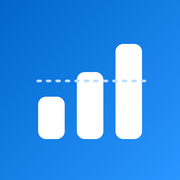
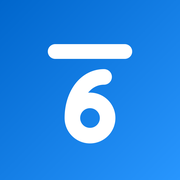
Publication v85 : nouveau nom Sur6 et nouvelle icône

Changed region(s): [[0.1944, 0.2222, 0.8333, 0.8056], [0.1944, 0.4167, 0.3333, 0.4722]]

diff --git a/onboard.js b/onboard.js
@@ -108,7 +108,7 @@
 
   function body(s) {
     if (s.id === "welcome") {
-      return '<div class="ob-hero"><img src="icon-180.png" alt="" class="ob-icon"><h1>Bienvenue</h1>' +
+      return '<div class="ob-hero"><img src="icon-180.png" alt="" class="ob-icon"><h1>Bienvenue dans Sur6</h1>' +
         '<p>Tes notes, tes moyennes et ta promotion, calculées pour toi. Réponds à quelques questions sur ton cursus : tout reste sur cet appareil.</p>' +
         '<p class="ob-fine">Vaud et Genève · règles 2026-2027</p>' +
         '<p class="ob-fine ob-disc">' + esc(window.Guide ? Guide.disclaimer : "Application non officielle. Résultats indicatifs : seul ton bulletin fait foi.") + '</p>' +
@@ -403,12 +403,12 @@
     if (isIOS) return [
       [ICON_SHARE, "Touche le bouton Partager", isIPhone ? "En bas du navigateur, ou en haut à droite dans Chrome. Si tu ne le vois pas, touche d'abord ⋯." : "En haut à droite du navigateur. Si tu ne le vois pas, touche d'abord ⋯."],
       [ICON_ADD, "Choisis « Sur l'écran d'accueil »", "Fais défiler la liste si besoin, puis touche « Ajouter »."],
-      [ICON_HOME, "Ouvre Notes depuis ton écran d'accueil", "La configuration commencera dans l'app."]
+      [ICON_HOME, "Ouvre Sur6 depuis ton écran d'accueil", "La configuration commencera dans l'app."]
     ];
     return [
       [ICON_DOTS, "Ouvre le menu du navigateur", "Le bouton ⋮ en haut à droite."],
       [ICON_ADD, "Touche « Installer l'application »", "Ou « Ajouter à l'écran d'accueil »."],
-      [ICON_HOME, "Ouvre Notes depuis ton écran d'accueil", "La configuration commencera dans l'app."]
+      [ICON_HOME, "Ouvre Sur6 depuis ton écran d'accueil", "La configuration commencera dans l'app."]
     ];
   }
 
@@ -436,9 +436,9 @@
   var SC_SCROLL = 70; // défilement de la feuille de partage, en px de la scène
   var SKIP_DELAY = 6000;
   function demoSteps(kind) {
-    var tail = [["addhome", "Fais défiler, puis touche « Sur l'écran d'accueil »"], ["ok", "Touche « Ajouter »"], ["icon", "Ouvre Notes depuis ton écran d'accueil"]];
-    if (kind === "inapp") return [["open", "Touche « Ouvrir dans " + target() + " »"], ["safari", target() + " s'ouvre : suis les étapes pour installer Notes"]];
-    if (kind === "android") return [["more", "Touche ⋮ en haut à droite de Chrome"], ["addhome", "Touche « Ajouter à l'écran d'accueil »"], ["ok", "Touche « Installer »"], ["icon", "Ouvre Notes depuis ton écran d'accueil"]];
+    var tail = [["addhome", "Fais défiler, puis touche « Sur l'écran d'accueil »"], ["ok", "Touche « Ajouter »"], ["icon", "Ouvre Sur6 depuis ton écran d'accueil"]];
+    if (kind === "inapp") return [["open", "Touche « Ouvrir dans " + target() + " »"], ["safari", target() + " s'ouvre : suis les étapes pour installer Sur6"]];
+    if (kind === "android") return [["more", "Touche ⋮ en haut à droite de Chrome"], ["addhome", "Touche « Ajouter à l'écran d'accueil »"], ["ok", "Touche « Installer »"], ["icon", "Ouvre Sur6 depuis ton écran d'accueil"]];
     if (kind === "ipad") return [["share", "Touche Partager, en haut à droite de Safari"]].concat(tail);
     return (safariV >= 26 ? [["more", "Touche ••• en bas à droite de Safari"], ["share", "Touche « Partager »"]]
       : [["share", "Touche Partager, en bas au milieu de Safari"]]).concat(tail);
@@ -455,7 +455,7 @@
     var I = function (n) { return window.Icons.svg(n); }, host = esc(location.hostname || "notes");
     var li = function (t, ic, id) { return '<div class="ios-sc-li"' + (id ? ' data-t="' + id + '"' : "") + '><span>' + t + '</span>' + I(ic) + '</div>'; };
     var page = function (c) { return '<div class="ios-sc-page' + (c ? " " + c : "") + '"><img src="icon-180.png" alt=""><i class="t"></i><i></i><i class="s"></i><i></i></div>'; };
-    var home = '<div class="ios-sc-home">' + new Array(11).join("<i></i>") + '<img src="icon-180.png" alt="" data-t="icon"><b class="ios-sc-name">Notes</b></div>' +
+    var home = '<div class="ios-sc-home">' + new Array(11).join("<i></i>") + '<img src="icon-180.png" alt="" data-t="icon"><b class="ios-sc-name">Sur6</b></div>' +
       '<div class="ios-sc-launch"></div><div class="ios-sc-dot"></div>';
     var top = isIOS ? '<div class="ios-sc-island"></div><div class="ios-sc-status"><span>9:41</span></div>' : '<div class="ios-sc-status ios-sc-astatus"><span>9:41</span></div>';
     var bar26 = '<div class="ios-sc-bar26"><span class="ios-sc-c">' + I("chevl") + '</span><span class="ios-sc-addr">' + host + '</span><span class="ios-sc-c" data-t="more">' + I("dots") + '</span></div>';
@@ -468,20 +468,20 @@
       (igB ? '<div class="ios-sc-inbar"><span>' + I("times") + '</span><b>' + host + '</b><span class="ios-sc-igm" data-t="igmore">' + I("dots") + '</span></div>' +
         '<div class="ios-sc-menu ios-sc-igmenu">' + li("Copier le lien", "copy") + li("Ouvrir dans le navigateur externe", "globe", "extbrowser") + li("Signaler", "info") + '</div>'
       : '<div class="ios-sc-inbar"><span class="ios-sc-blue">' + (isIOS ? "Terminé" : I("times")) + '</span><b>' + (isMoodle ? "Moodle" : host) + '</b><span></span></div>') +
-      '<div class="ios-sc-ipage"><img src="icon-180.png" alt=""><b>Ouvre Notes dans ' + target() + '</b><span class="ios-sc-btn" data-t="open">Ouvrir dans ' + target() + '</span></div>' +
+      '<div class="ios-sc-ipage"><img src="icon-180.png" alt=""><b>Ouvre Sur6 dans ' + target() + '</b><span class="ios-sc-btn" data-t="open">Ouvrir dans ' + target() + '</span></div>' +
       '<div class="ios-sc-saf">' + top + (isIOS ? page() + (safariV >= 26 ? bar26 : bar18) : atop + page("ios-sc-apage")) + '</div><div class="ios-sc-dot"></div>';
     // Chrome sur Android : barre d'adresse en haut avec ⋮, menu qui descend, boîte « Installer l'application ».
     if (kind === "android") return top + atop + page("ios-sc-apage") +
       '<div class="ios-sc-menu ios-sc-amenu">' + li("Nouvel onglet", "add") + li("Historique", "clock") + li("Favoris", "star") + li("Partager…", "share") +
       li("Ajouter à l'écran d'accueil", "addhome", "addhome") + li("Paramètres", "settings") + '</div>' +
-      '<div class="ios-sc-add ios-sc-dlg"><b>Installer l\'application</b><div class="ios-sc-card"><img src="icon-180.png" alt=""><span><b>Notes</b><small>' + host + '</small></span></div>' +
+      '<div class="ios-sc-add ios-sc-dlg"><b>Installer l\'application</b><div class="ios-sc-card"><img src="icon-180.png" alt=""><span><b>Sur6</b><small>' + host + '</small></span></div>' +
       '<div class="ios-sc-dlgb"><span class="ios-sc-blue">Annuler</span><span class="ios-sc-blue ios-sc-ok" data-t="ok">Installer</span></div></div>' + home;
-    var sheet = '<div class="ios-sc-sheet"><div class="ios-sc-sheet-in"><div class="ios-sc-head"><img src="icon-180.png" alt=""><span><b>Notes</b><small>' + host + '</small></span></div>' +
+    var sheet = '<div class="ios-sc-sheet"><div class="ios-sc-sheet-in"><div class="ios-sc-head"><img src="icon-180.png" alt=""><span><b>Sur6</b><small>' + host + '</small></span></div>' +
       '<div class="ios-sc-round"><i></i><i></i><i></i><i></i><i></i></div><div class="ios-sc-round ios-sc-apps"><i></i><i></i><i></i><i></i><i></i></div>' +
       '<div class="ios-sc-list">' + li("Copier", "copy") + li("Ajouter à la liste de lecture", "list") + li("Ajouter aux signets", "book") + li("Ajouter aux favoris", "star") +
       li("Rechercher dans la page", "search") + li("Sur l'écran d'accueil", "addhome", "addhome") + li("Imprimer", "doc") + '</div></div></div>' +
       '<div class="ios-sc-add"><div class="ios-sc-addh"><span class="ios-sc-blue">Annuler</span><b>Ajouter à l\'écran d\'accueil</b><span class="ios-sc-blue ios-sc-ok" data-t="ok">Ajouter</span></div>' +
-      '<div class="ios-sc-card"><img src="icon-180.png" alt=""><span><b>Notes</b><small>' + host + '</small></span></div>' +
+      '<div class="ios-sc-card"><img src="icon-180.png" alt=""><span><b>Sur6</b><small>' + host + '</small></span></div>' +
       '<div class="ios-sc-card ios-sc-tg"><span>Ouvrir comme app web</span><i></i></div></div>';
     // Safari sur iPad : barre en haut, Partager à droite, la feuille s'ouvre en bulle sous le bouton.
     if (kind === "ipad") return '<div class="ios-sc-status"><span>9:41</span></div>' +
@@ -498,8 +498,8 @@
     var el = document.createElement("div");
     el.className = "ob ob-install ios-inst"; el.setAttribute("role", "dialog"); el.setAttribute("aria-modal", "true"); el.setAttribute("aria-label", "Installer l'app");
     el.innerHTML =
-      (inapp ? '<div class="ios-inst-head"><h1>Ouvre Notes dans ' + target() + '</h1><p>' + (inApp ? "Ici, Notes ne peut pas s'installer." : "Notes s'installe depuis " + target() + ".") + '</p></div>'
-        : '<div class="ios-inst-head"><h1>Installe Notes</h1><p>Regarde, puis fais pareil dans ' + nav + '.</p></div>') +
+      (inapp ? '<div class="ios-inst-head"><h1>Ouvre Sur6 dans ' + target() + '</h1><p>' + (inApp ? "Ici, Sur6 ne peut pas s'installer." : "Sur6 s'installe depuis " + target() + ".") + '</p></div>'
+        : '<div class="ios-inst-head"><h1>Installe Sur6</h1><p>Regarde, puis fais pareil dans ' + nav + '.</p></div>') +
       '<div class="ios-inst-stage"><div class="ios-inst-ph" aria-hidden="true"><div class="ios-inst-sc ios-inst-' + kind + (isIOS ? "" : " ios-inst-andr") + '">' + sceneHTML(kind) + '</div></div></div>' +
       '<div class="ios-inst-cap" aria-live="polite"><span class="ios-inst-n"></span><b class="ios-inst-t"></b></div>' +
       '<div class="ios-inst-nav">' + (live ? "" : '<button type="button" class="ob-round" id="inst-prev" aria-label="Étape précédente">' + window.Icons.svg("chevl") + '</button>') +
@@ -507,12 +507,12 @@
       (live ? "" : '<button type="button" class="ob-round" id="inst-next" aria-label="Étape suivante">' + window.Icons.svg("chevr") + '</button>') + '</div>' +
       '<div class="ios-inst-foot">' +
       // Un seul gros bouton quand une action directe existe : installer (Chrome) ou ouvrir le bon navigateur (navigateur intégré).
-      (andr ? '<button type="button" class="btn ob-next ios-inst-go" id="inst-btn"' + (deferredPrompt ? "" : " hidden") + '>Installer Notes</button>' : "") +
+      (andr ? '<button type="button" class="btn ob-next ios-inst-go" id="inst-btn"' + (deferredPrompt ? "" : " hidden") + '>Installer Sur6</button>' : "") +
       (inapp ? '<a class="btn ob-next ios-inst-go" id="inst-open" href="' + esc(openURL()) + '">Ouvrir dans ' + target() + '</a>' +
         '<button type="button" class="btn ob-next ios-inst-go" id="inst-copy" hidden>Copier le lien</button>' : "") +
-      '<p class="ob-fine">' + (andr ? "Notes s\'ouvrira en plein écran, comme une vraie app, et marchera sans connexion."
+      '<p class="ob-fine">' + (andr ? "Sur6 s\'ouvrira en plein écran, comme une vraie app, et marchera sans connexion."
         : inapp ? "Si rien ne s\'ouvre, copie le lien et colle-le dans la barre d\'adresse de " + target() + "."
-        : "Safari et l\'app de l\'écran d\'accueil ne partagent pas leurs données : configure Notes dans l\'app, pas ici.") + '</p>' +
+        : "Safari et l\'app de l\'écran d\'accueil ne partagent pas leurs données : configure Sur6 dans l\'app, pas ici.") + '</p>' +
       '<p class="ob-fine ios-inst-parent">Parent d\'élève ? Installe d\'abord l\'app comme ton enfant, puis touche « Pour les parents ».</p>' +
       '<button type="button" class="link inst-skip ios-inst-later" id="inst-skip">Continuer ' + here + '</button></div>';
     document.body.appendChild(el);
@@ -661,7 +661,7 @@
         op.hidden = true; cp.hidden = false;
         if (isInsta && isIOS) {
           // Plan B : la démo montre ••• puis « Ouvrir dans le navigateur externe » ; « Copier le lien » reste dessous, en gris.
-          STEPS = [["igmore", "Ça ne s'est pas ouvert ? Touche ••• en haut à droite"], ["extbrowser", "Touche « Ouvrir dans le navigateur externe »"], ["safari", "Safari s'ouvre : suis les étapes pour installer Notes"]];
+          STEPS = [["igmore", "Ça ne s'est pas ouvert ? Touche ••• en haut à droite"], ["extbrowser", "Touche « Ouvrir dans le navigateur externe »"], ["safari", "Safari s'ouvre : suis les étapes pour installer Sur6"]];
           el.querySelector(".ios-inst-dots").innerHTML = STEPS.map(function () { return "<i></i>"; }).join("");
           dots = el.querySelectorAll(".ios-inst-dots i");
           cp.classList.add("ios-inst-alt"); window.dispatchEvent(new Event("resize"));
@@ -686,7 +686,7 @@
     // Installée pendant que la page est ouverte (Android) : on le dit à la place de la légende.
     if (andr) window.addEventListener("appinstalled", function () {
       gen++; if (go) go.hidden = true; state(STEPS.length - 1); dots.forEach(function (d, j) { d.classList.toggle("on", j === STEPS.length - 1); });
-      num.textContent = "C'est installé !"; cap.textContent = "Ouvre Notes depuis ton écran d'accueil";
+      num.textContent = "C'est installé !"; cap.textContent = "Ouvre Sur6 depuis ton écran d'accueil";
     });
   }
 
@@ -699,7 +699,7 @@
     el.className = "ob ob-install"; el.setAttribute("role", "dialog"); el.setAttribute("aria-modal", "true"); el.setAttribute("aria-label", "Installer l'app");
     el.innerHTML =
       '<div class="ob-body"><div class="ob-hero"><img src="icon-180.png" alt="" class="ob-icon"><h1>' + (inApp ? "Ouvre l\'app dans " + (isIOS ? "Safari" : "ton navigateur") : "Installe l\'app") + '</h1>' +
-      '<p>' + (inApp ? "Cette fenêtre" + (isMoodle ? " (l\'app Moodle)" : "") + " ne permet pas d\'installer l\'app. Ouvre le lien dans " + (isIOS ? "Safari" : "ton navigateur") + " puis installe-la depuis là : tu ne feras la configuration qu\'une fois." : "Ajoute Notes à ton écran d\'accueil avant de commencer : elle s\'ouvre en plein écran, marche sans connexion et peut envoyer des notifications. Tu ne feras la configuration qu\'une fois.") + '</p></div>' +
+      '<p>' + (inApp ? "Cette fenêtre" + (isMoodle ? " (l\'app Moodle)" : "") + " ne permet pas d\'installer l\'app. Ouvre le lien dans " + (isIOS ? "Safari" : "ton navigateur") + " puis installe-la depuis là : tu ne feras la configuration qu\'une fois." : "Ajoute Sur6 à ton écran d\'accueil avant de commencer : elle s\'ouvre en plein écran, marche sans connexion et peut envoyer des notifications. Tu ne feras la configuration qu\'une fois.") + '</p></div>' +
       '<ol class="inst-steps">' + steps().map(function (s, i) {
         return '<li><span class="inst-ic' + (s[0] === "!" ? " warn" : "") + '">' + (s[0] === "!" ? "!" : s[0]) + '</span><span class="ob-txt"><span class="ob-n">' + (steps().length > 1 ? (i + 1) + ". " : "") + esc(s[1]) + '</span><span class="ob-s">' + esc(s[2]) + '</span></span></li>';
       }).join("") + '</ol>' +
@@ -730,7 +730,7 @@
     });
     bindSkip(el);
     // Installée depuis Android pendant que la page est ouverte.
-    window.addEventListener("appinstalled", function () { var s = el.querySelector(".ob-hero p"); if (s) s.textContent = "C'est installé ! Ouvre Notes depuis ton écran d'accueil."; });
+    window.addEventListener("appinstalled", function () { var s = el.querySelector(".ob-hero p"); if (s) s.textContent = "C'est installé ! Ouvre Sur6 depuis ton écran d'accueil."; });
   }
 
   window.Onboard = { open: open, refresh: refreshSummary, detectInApp: detectInApp };

diff --git a/guide.js b/guide.js
@@ -36,11 +36,11 @@
       // Phase 3, point 2 (choix de l'utilisateur) : sur ordinateur, installation depuis Safari sur Mac ou Chrome.
       if (deskNow()) return "<div class='gd-flow'><div class='gd-tile pulse'>" + ic("doc") + "<b>Fichier</b></div><span class='gd-arrow'>›</span>" +
         "<div class='gd-tile'>" + ic("add") + "<b>Ajouter au Dock</b></div><span class='gd-arrow'>›</span>" +
-        "<div class='gd-tile'><img src='icon-180.png' alt=''><b>Notes</b></div></div>" +
+        "<div class='gd-tile'><img src='icon-180.png' alt=''><b>Sur6</b></div></div>" +
         "<p class='gd-cap'>Safari sur Mac, ou Chrome</p>";
       return "<div class='gd-flow'><div class='gd-tile pulse'>" + ic("share") + "<b>Partager</b></div><span class='gd-arrow'>›</span>" +
         "<div class='gd-tile'>" + ic("add") + "<b>Sur l'écran d'accueil</b></div><span class='gd-arrow'>›</span>" +
-        "<div class='gd-tile'><img src='icon-180.png' alt=''><b>Notes</b></div></div>" +
+        "<div class='gd-tile'><img src='icon-180.png' alt=''><b>Sur6</b></div></div>" +
         "<p class='gd-cap'>Dans Safari, pas dans Moodle</p>";
     },
     config: function () {
@@ -147,7 +147,7 @@
         "<div class='gd-tips'><div class='gd-tp'>" + ic("bell") + "<span>Réglages → Synchronisation → Activer les notifications</span></div></div>";
     },
     parents: function () {
-      return "<div class='gd-flow'><div class='gd-tile'><img src='icon-180.png' alt=''><b>Installer Notes</b></div><span class='gd-arrow'>›</span>" +
+      return "<div class='gd-flow'><div class='gd-tile'><img src='icon-180.png' alt=''><b>Installer Sur6</b></div><span class='gd-arrow'>›</span>" +
         "<div class='gd-tile pulse'>" + ic("people") + "<b>Entrer le code</b></div><span class='gd-arrow'>›</span>" +
         "<div class='gd-tile'>" + ic("bell") + "<b>Activer les notifications</b></div></div>" +
         "<p class='gd-cap'>Même app, même code que l'élève</p>";
@@ -179,9 +179,9 @@
     { t: "Prise en main", d: "4 min", s: [
       { t: "Installe l'app", v: "install", p: function () { return deskNow() ? [
         "Sur ordinateur, dans <b>Safari sur Mac</b> : menu <b>Fichier</b> → <b>Ajouter au Dock</b>. Dans <b>Chrome</b> : clique l'icône d'installation à droite de la barre d'adresse, puis <b>Installer</b>.",
-        "Ouvre ensuite toujours l'app par son icône <b>Notes</b>. Sur ton téléphone, installe-la depuis Safari (iPhone) ou Chrome (Android) : l'écran d'arrivée le montre en animation."] : [
+        "Ouvre ensuite toujours l'app par son icône <b>Sur6</b>. Sur ton téléphone, installe-la depuis Safari (iPhone) ou Chrome (Android) : l'écran d'arrivée le montre en animation.", "Ton icône s'appelle encore <b>Notes</b> ? C'est l'ancien nom de l'app : rien à faire, tout marche pareil."] : [
         "Ouvre le lien dans <b>Safari</b>, touche <b>Partager</b> (depuis iOS 26 : d'abord <b>•••</b> en bas à droite), puis <b>Sur l'écran d'accueil</b> et <b>Ajouter</b>. L'écran d'arrivée le montre en animation.",
-        "Ouvre ensuite toujours l'app par son icône <b>Notes</b> : ce que tu saisis dans Safari ne se retrouve pas dans l'app installée."]; } },
+        "Ouvre ensuite toujours l'app par son icône <b>Sur6</b> : ce que tu saisis dans Safari ne se retrouve pas dans l'app installée.", "Ton icône s'appelle encore <b>Notes</b> ? C'est l'ancien nom de l'app : rien à faire, tout marche pareil."]; } },
       { t: "Fais la configuration", v: "config", p: [
         "Choisis ton gymnase, ton année, tes langues, ton option spécifique, ton niveau de maths et ta discipline artistique (et l'option complémentaire en 3e).",
         "L'app crée tes branches avec leurs périodes. Un choix impossible est grisé, avec la raison. Tu pourras tout changer plus tard dans <b>Réglages → Profil</b>."] },
@@ -463,7 +463,7 @@
         "<p class='muted small'><b>Tes données.</b> Tes notes, tes TA et ton profil restent sur ton téléphone : l'app n'a pas de compte et ne collecte aucune donnée personnelle. Si tu supprimes l'icône, ils sont effacés, pense donc à exporter une sauvegarde.</p>" +
         "<p class='muted small'><b>Photos des tests.</b> Elles restent sur l'appareil qui les a prises : elles ne sont pas synchronisées, et partent dans la sauvegarde seulement avec « Inclure les photos ».</p>" +
         "<p class='muted small'><b>Synchronisation et notifications.</b> Elles sont facultatives. La synchronisation envoie une copie chiffrée avec ton code, que personne d'autre ne peut lire ; les notifications passent par le même serveur, chiffrées avec le même code, puis par le service de notifications d'Apple ou de Google. La copie est stockée chez Cloudflare. Le site est hébergé par GitHub, qui peut enregistrer des données techniques de connexion comme tout site web.</p>" +
-        "<p class='muted small'><b>Comptage anonyme.</b> Une fois par semaine, l'app dit au serveur « un appareil de plus utilise Notes », sans identifiant, sans note ni profil. Ça sert seulement à savoir combien d'élèves l'utilisent.</p>" +
+        "<p class='muted small'><b>Comptage anonyme.</b> Une fois par semaine, l'app dit au serveur « un appareil de plus utilise Sur6 », sans identifiant, sans note ni profil. Ça sert seulement à savoir combien d'élèves l'utilisent.</p>" +
         "<label class='ios-row ios-ab-count'><span class='ios-row-l'>Compter cet appareil</span><input type='checkbox' switch id='ab-count'" + (!window.NotesCount || NotesCount.on() ? " checked" : "") + "></label>" +
         "<p class='muted small'><b>Icônes.</b> Icônes Lucide (licence ISC).</p>" +
         "<p class='gd-copy'>©louis mutter</p>";

diff --git a/import.js b/import.js
@@ -74,7 +74,7 @@
   function personalPrompt() {
     var pr = A.profile(); if (!pr) return genericPromptSync();
     var st = A.get();
-    return 'Tu es un assistant qui convertit un tableau de notes (Excel, Google Sheets, CSV, PDF, capture d\'écran ou texte collé) en un fichier JSON pour l\'application « Notes », qui suit les notes d\'élèves des écoles vaudoises (calcul des moyennes et de la promotion).\n\n' +
+    return 'Tu es un assistant qui convertit un tableau de notes (Excel, Google Sheets, CSV, PDF, capture d\'écran ou texte collé) en un fichier JSON pour l\'application « Sur6 », qui suit les notes d\'élèves des écoles vaudoises (calcul des moyennes et de la promotion).\n\n' +
       'PROFIL DÉJÀ CONFIGURÉ DANS L\'APP\n' + profileSummary(pr) + '\nFin du semestre 1 : ' + st.cfg.s1End + '\n\n' +
       'BRANCHES DE L\'APP (utilise EXACTEMENT ces identifiants dans le champ "branche")\nid | nom | périodes par semaine | remarques\n' + subjectTable() + '\n\n' +
       examLine(pr) + '\n' +
@@ -84,7 +84,7 @@
   function genericPromptSync(ecgReady) {
     var m = function (l) { return l.map(function (x) { return x.id + " = " + x.name; }).join(" ; "); };
     var ecgP = { voie: "ecg" }, ecg = G.ext(ecgP);
-    return 'Tu es un assistant qui convertit un tableau de notes (Excel, Google Sheets, CSV, PDF, capture d\'écran ou texte collé) en un fichier JSON pour l\'application « Notes », qui suit les notes d\'élèves des écoles vaudoises (calcul des moyennes et de la promotion). L\'app existe pour la maturité gymnasiale et pour l\'École de culture générale (ECG) ; l\'École de commerce n\'est pas encore prise en charge.\n\n' +
+    return 'Tu es un assistant qui convertit un tableau de notes (Excel, Google Sheets, CSV, PDF, capture d\'écran ou texte collé) en un fichier JSON pour l\'application « Sur6 », qui suit les notes d\'élèves des écoles vaudoises (calcul des moyennes et de la promotion). L\'app existe pour la maturité gymnasiale et pour l\'École de culture générale (ECG) ; l\'École de commerce n\'est pas encore prise en charge.\n\n' +
       'ÉTAPE 1 : PROFIL. Pose-moi les questions nécessaires (une par ligne) pour remplir le champ "profil" : voie, année, gymnase, classe, choix de langues, options. Valeurs possibles :\n' +
       '- "voie" : "mat" (maturité) ou "ecg" (culture générale). "annee" : 1, 2 ou 3. "classe" : texte libre (facultatif).\n' +
       '- "gymnase" : ' + m(G.GYMNASES) + '.\n' +
@@ -486,7 +486,7 @@
     if (a === "back") { screenStart(); return; }
     if (a === "copy-perso") { copy(personalPrompt()).then(function () { say("Prompt copié : colle-le dans ton IA, avec ton fichier.", false); hap("success"); }, function () { say("Impossible de copier automatiquement.", true); }); return; }
     if (a === "copy-gen") { genericPrompt().then(copy).then(function () { say("Prompt générique copié : colle-le dans ton IA, avec ton fichier.", false); hap("success"); }, function () { say("Impossible de copier automatiquement.", true); }); return; }
-    if (a === "share-gen") { genericPrompt().then(function (t) { return navigator.share({ title: "Prompt d'import Notes", text: t }); }).catch(function () {}); return; }
+    if (a === "share-gen") { genericPrompt().then(function (t) { return navigator.share({ title: "Prompt d'import Sur6", text: t }); }).catch(function () {}); return; }
     if (a === "paste") {
       if (!navigator.clipboard || !navigator.clipboard.readText) { say("Ton navigateur ne permet pas de coller automatiquement : colle dans le champ.", true); return; }
       navigator.clipboard.readText().then(function (t) { S.text = t; var ta = $("#imp-ta", S.root); if (ta) ta.value = t; var n = $(".ob-next", S.root); if (n) n.disabled = !t.trim(); }, function () { say("Colle la réponse directement dans le champ.", true); });

diff --git a/sw.js b/sw.js
@@ -1,7 +1,7 @@
 /* Hors-ligne : la page vient du réseau si possible, sinon du cache ; le reste du cache d'abord.
    voie-ecg.js, canton-ge.js et import.js ne sont volontairement pas dans ASSETS : chargés (et gardés en cache à la première utilisation) seulement si l'élève choisit cette voie ou utilise l'import. */
-var V = "notes2m01-v84";
-var ASSETS = ["./", "index.html", "fx.css", "ios.css", "fx.js", "ios-nav.js", "ios-motion.js", "ios-sheets.js", "ios-tabbar.js", "ios-home.js", "ios-dash.js", "ios-desk.js", "ios-add.js", "ios-title.js", "ios-settings.js", "ios-detail.js", "ios-anim.js", "icons.js", "NOTICE-Lucide.txt", "grid.js", "ta.js", "photos.js", "cert.js", "year.js", "notify.js", "sync.js", "onboard.js", "guide.js", "hello.js", "motion.js", "manifest.webmanifest", "icon-180.png", "icon-192.png", "icon-512.png"];
+var V = "notes2m01-v85";
+var ASSETS = ["./", "index.html", "fx.css", "ios.css", "fx.js", "ios-nav.js", "ios-motion.js", "ios-sheets.js", "ios-tabbar.js", "ios-home.js", "ios-dash.js", "ios-desk.js", "ios-add.js", "ios-title.js", "ios-settings.js", "ios-detail.js", "ios-anim.js", "icons.js", "NOTICE-Lucide.txt", "grid.js", "ta.js", "photos.js", "cert.js", "year.js", "notify.js", "sync.js", "onboard.js", "guide.js", "hello.js", "motion.js", "manifest.webmanifest", "icon-180.png", "icon-192.png", "icon-512.png", "icon-maskable-512.png", "icon.svg"];
 self.addEventListener("install", function (e) {
   e.waitUntil(caches.open(V).then(function (c) { return c.addAll(ASSETS.map(function (u) { return new Request(u, { cache: "reload" }); })); }).then(function () { return self.skipWaiting(); }));
 });
@@ -49,9 +49,9 @@ function pushOpen(b64) {
     .then(function (pt) { return JSON.parse(new TextDecoder().decode(pt)); });
 }
 self.addEventListener("push", function (e) {
-  var plain = { title: "Notes", body: "Nouvelle note" };
+  var plain = { title: "Nouvelle note", body: "" };   // le nom de l'app (Sur6) est déjà affiché par le téléphone
   var p = Promise.resolve().then(function () { return pushOpen(e.data.json().d); }).then(function (m) {
-    return { title: String(m.title || "Notes").slice(0, 80), body: String(m.body || "Nouvelle note").slice(0, 200), tag: m.t === "verdict" ? "verdict" : undefined };
+    return { title: String(m.title || "Nouvelle note").slice(0, 80), body: String(m.body || "").slice(0, 200), tag: m.t === "verdict" ? "verdict" : undefined };
   }, function () { return plain; }).then(function (n) {
     return self.registration.showNotification(n.title, { body: n.body, icon: "icon-192.png", badge: "icon-192.png", tag: n.tag });
   });

diff --git a/index.html b/index.html
@@ -1,12 +1,21 @@
 <!doctype html><html lang="fr" data-theme="light"><head><meta charset="utf-8">
 <meta name="viewport" content="width=device-width,initial-scale=1,viewport-fit=cover">
-<title>Notes</title>
+<title>Sur6</title>
+<meta name="description" content="Tes moyennes du gymnase, calculées comme sur ton bulletin.">
+<meta property="og:title" content="Sur6">
+<meta property="og:description" content="Tes moyennes du gymnase, calculées comme sur ton bulletin.">
+<meta property="og:image" content="https://luis904-svg.github.io/notes-gymnase/og.png">
+<meta property="og:image:width" content="1200">
+<meta property="og:image:height" content="630">
+<meta property="og:image:alt" content="Sur6 : ta moyenne et ta promotion au gymnase">
+<meta name="twitter:card" content="summary_large_image">
 <link rel="manifest" href="manifest.webmanifest">
 <link rel="apple-touch-icon" sizes="180x180" href="icon-180.png">
-<link rel="icon" type="image/png" href="icon-192.png">
+<link rel="icon" type="image/svg+xml" href="icon.svg">
+<link rel="icon" type="image/png" sizes="192x192" href="icon-192.png">
 <meta name="apple-mobile-web-app-capable" content="yes">
 <meta name="mobile-web-app-capable" content="yes">
-<meta name="apple-mobile-web-app-title" content="Notes">
+<meta name="apple-mobile-web-app-title" content="Sur6">
 <meta name="apple-mobile-web-app-status-bar-style" content="default">
 <meta name="color-scheme" content="light dark">
 <meta name="theme-color" content="#F2F2F7">

diff --git a/fx.js b/fx.js
@@ -229,7 +229,7 @@
   (function () {
     var r = document.createElement("div"); r.className = "ios-rotate"; r.setAttribute("role", "alert");
     r.innerHTML = window.Icons.svg("phone") +
-      '<p class="ios-rotate-t">Tourne ton téléphone</p><p class="ios-rotate-s">Notes s\'utilise à la verticale.</p>';
+      '<p class="ios-rotate-t">Tourne ton téléphone</p><p class="ios-rotate-s">Sur6 s\'utilise à la verticale.</p>';
     document.body.appendChild(r);
   })();
 
@@ -317,7 +317,7 @@
     var canShare = file && navigator.canShare && navigator.canShare({ files: [file] });
     function go() {
       if (canShare) {
-        navigator.share({ files: [file], title: "Sauvegarde Notes" }).then(function () { markBackup(); say("Sauvegarde partagée."); }, function () {});
+        navigator.share({ files: [file], title: "Sauvegarde Sur6" }).then(function () { markBackup(); say("Sauvegarde partagée."); }, function () {});
       } else {
         var a = document.createElement("a"); a.href = URL.createObjectURL(blob); a.download = name;
         document.body.appendChild(a); a.click(); setTimeout(function () { URL.revokeObjectURL(a.href); a.remove(); }, 1500);
